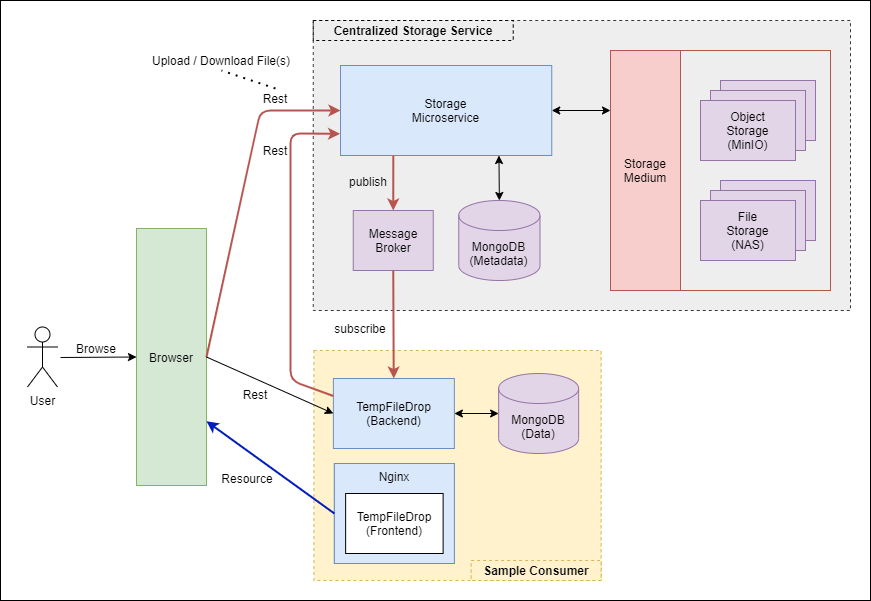
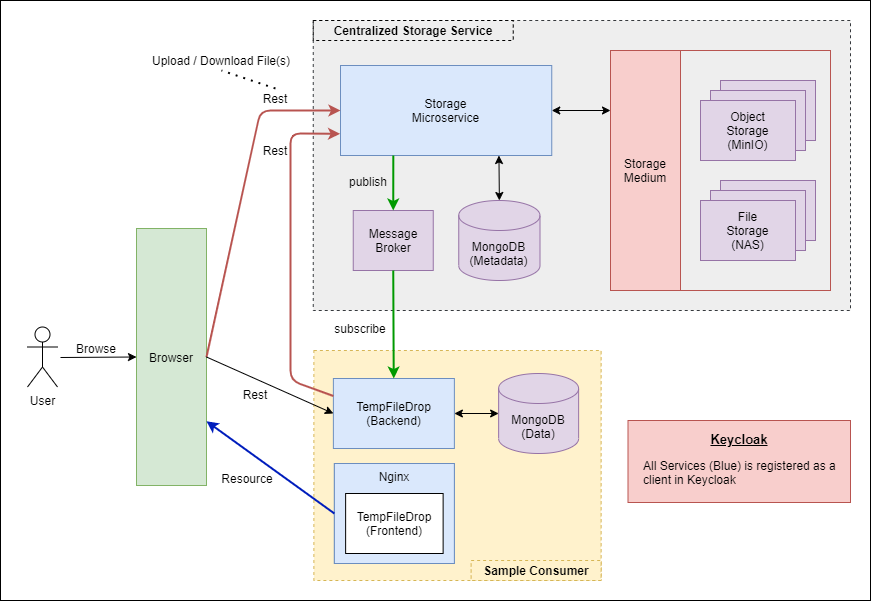
update documentation

Changed region(s): [[0.713, 0.6889, 0.992, 0.8386], [0.434, 0.4493, 0.465, 0.629], [0.434, 0.2696, 0.465, 0.3594]]

diff --git a/README.md b/README.md
@@ -3,8 +3,8 @@
 **Table of Content**
 - [Overview](#overview)
 - [Architecture Design](#architecture-design)
-- [Getting Started](design3)
-- [How to consume storage service](design3/storage-service/README.md#how-to-consume-centralized-storage-service)
+- [Getting Started](design4)
+- [How to consume storage service](design4/storage-service/README.md#how-to-consume-centralized-storage-service)
 - [Design Considerations](#design-considerations)
 - [Future Works](#future-works)
 - [References](#references)
@@ -37,10 +37,10 @@ There are 3 main purpose of this project.
 - **Keycloak** - Authentication
 
 **For more details on implementation, refer to the README of the individual services**
-- [Design v1 [Archive]](archive/design1)
-- [Design v2 [Archive]](archive/design2)
-- [Design v3 [Archive]](archive/design3)
-- **[Design v4 [Current]](design4)**
+- [Design v1 [Archive]](#version-1---backend-proxy)
+- [Design v2 [Archive]](#version-2---direct-consumption-with-event-feedback)
+- [Design v3 [Archive]](#version-3---gateway-authentication)
+- **[Design v4 [Current]](#version-4---gateway-authentication-v2-current)**
     - [TempFileDrop Website](design4/tempfiledrop/webapp)
     - [TempFileDrop Web Server](design4/tempfiledrop/webserver)
     - [storage-js-client](design4/storage-js-client)
@@ -79,8 +79,8 @@ In additional to the implementations above, I have added the implementations bel
 for more information.
 - **Event Feedback** when file upload / download / delete event occur
 - **Anonymous uploads / downloads**
-- **Streaming Upload**
-- **Keycloak authentication**
+- **Streaming File Upload**
+- **Keycloak authentication** - all services are registered as keycloak client
 
 ### Version 3 - Gateway Authentication
 
@@ -95,18 +95,22 @@ I used an API Gateway to manage authentication. Previously, the following featur
 - File Storage in either **Local File Storage** or **MinIO docker cluster**
 - **Event Feedback** when file upload / download / delete event occur
 - **Anonymous uploads / downloads**
-- **Streaming Upload**
-- **Keycloak authentication**
+- **Streaming File Upload**
+- **Keycloak authentication** - all services are registered as keycloak client **[UPDATED]**
 
 In additional to the implementations above, I added a few more implementations below. Refer to the [design 3's documentation](archive/design3) 
 for more information.
+- **Keycloak authentication**
+    - Only Web Applications are registered as clients
+    - Gateway is registered as client to handle authentication for backend services
 - **API Gateway** with **Centralized Authentication**
+- **Microservice authorization / validations**
     - Role Authorization using **Storage Gateway Client Roles**
     - API request validation by extracting **Client/Realm Role Attributes** (buckets, routingkeys, subscribers) from keycloak token
 - **Storage Console** to view storage and events
 - **storage-js-client** is a javascript client for web applications to communicate with storage service
 
-### Version 4 - Gateway Authentication V2 [Current]
+### Version 4 - Gateway V2 [Current]
 
 ![design 4](doc/architecture_design4.png)
 
@@ -120,9 +124,12 @@ authentication & authorization is handled purely by the gateway. Previously, the
 - File Storage in either **Local File Storage** or **MinIO docker cluster**
 - **Event Feedback** when file upload / download / delete event occur
 - **Anonymous uploads / downloads**
-- **Streaming Upload**
-- **Keycloak authentication**
+- **Streaming File Upload**
+- **Keycloak authentication** -- **[UPDATED]**
+    - Only Web Applications are registered as clients
+    - Gateway is registered as client to handle authentication for backend services
 - **API Gateway** with **Centralized Authentication**
+- **Microservice authorization / validations**
     - Role Authorization using **Storage Gateway Client Roles**
     - API request validation by extracting **Client/Realm Role Attributes** (buckets, routingkeys, subscribers) from keycloak token
 - **Storage Console** to view storage and events
@@ -130,7 +137,9 @@ authentication & authorization is handled purely by the gateway. Previously, the
 
 In additional to the implementations above, I added a few more implementations below. Refer to the design 4's documentation(design4)
 for more information.
-- **Open Policy Agent (OPA)** for authorization
+- **Keycloak authentication**
+    - Only Gateway is registered as client to handle authentication for backend services and web applications
+- **Open Policy Agent (OPA)** for authorization at gateway
 
 ## Design Considerations
 

diff --git a/archive/design2/README.md b/archive/design2/README.md
@@ -1,6 +1,6 @@
 # Design v2 - Direct Consumption with Event Feedback
 
-![design 1](../../doc/architecture_design2.png)
+![design 1](../../doc/architecture_design2b.png)
 
 This design is an upgrade to the first implementation. Additional features such as **keycloak authentication** and 
 **event feedback using rabbitmq** was added. For more details, check out the [centralized storage service documentation](storage-service).

diff --git a/design4/README.md b/design4/README.md
@@ -1,6 +1,6 @@
-# Design v3 - API Gateway with Access Control
+# Design v4 - Gateway
 
-![design 3](../doc/architecture_design3.png)
+![design 3](../doc/architecture_design4.png)
 
 This design is an upgrade to the first and second implementation. Additional features such as **api gateway** and 
 **storage console** was added. For more details, check out the [centralized storage service documentation](storage-service)

diff --git a/archive/design1/README.md b/archive/design1/README.md
@@ -3,7 +3,7 @@
 This project is the very first design that I conceptualize where I used the backend webserver to proxy file storage 
 related requests to the centralized storage service. No authentication have been implemented in this design. 
 
-![design 1](../../doc/architecture_design1.png)
+![design 1](../../doc/architecture_design1b.png)
 
 ## Features
 
